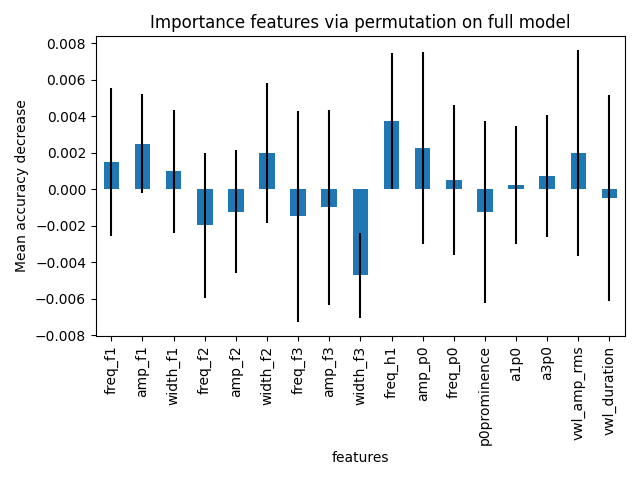
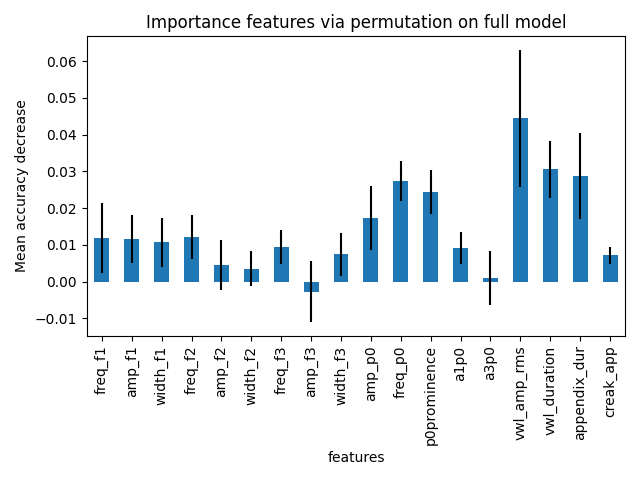
ran experiment_2.py

Changed region(s): [[0.0625, 0.0625, 0.9688, 0.9375], [0.2188, 0.0312, 0.9062, 0.0625], [0.5, 0.9375, 0.625, 0.9688]]

diff --git a/py_files/decision_tree/experiment_2.py b/py_files/decision_tree/experiment_2.py
@@ -13,13 +13,13 @@ def main():
 
     full_data = controll_data[controll_data["timepoint"] == 3]
 
-    nasal_appendix = full_data.drop(columns=["timepoint", "creak_app", "target"])
+    nasal_appendix = full_data.drop(columns=["timepoint", "appendix", "creak_app", "target"])
     nasal_target = full_data["target"]
 
-    creak_appendix = full_data.drop(columns=["timepoint", "nasal_app", "target"])
+    creak_appendix = full_data.drop(columns=["timepoint", "appendix", "nasal_app", "target"])
     creak_target = full_data["target"]
 
-    both = full_data.drop(columns=["timepoint", "vwl_duration", "target"])
+    both = full_data.drop(columns=["timepoint", "vwl_duration", "appendix", "target"])
     both_target = full_data["target"]
 
     data = [nasal_appendix, creak_appendix, both]
